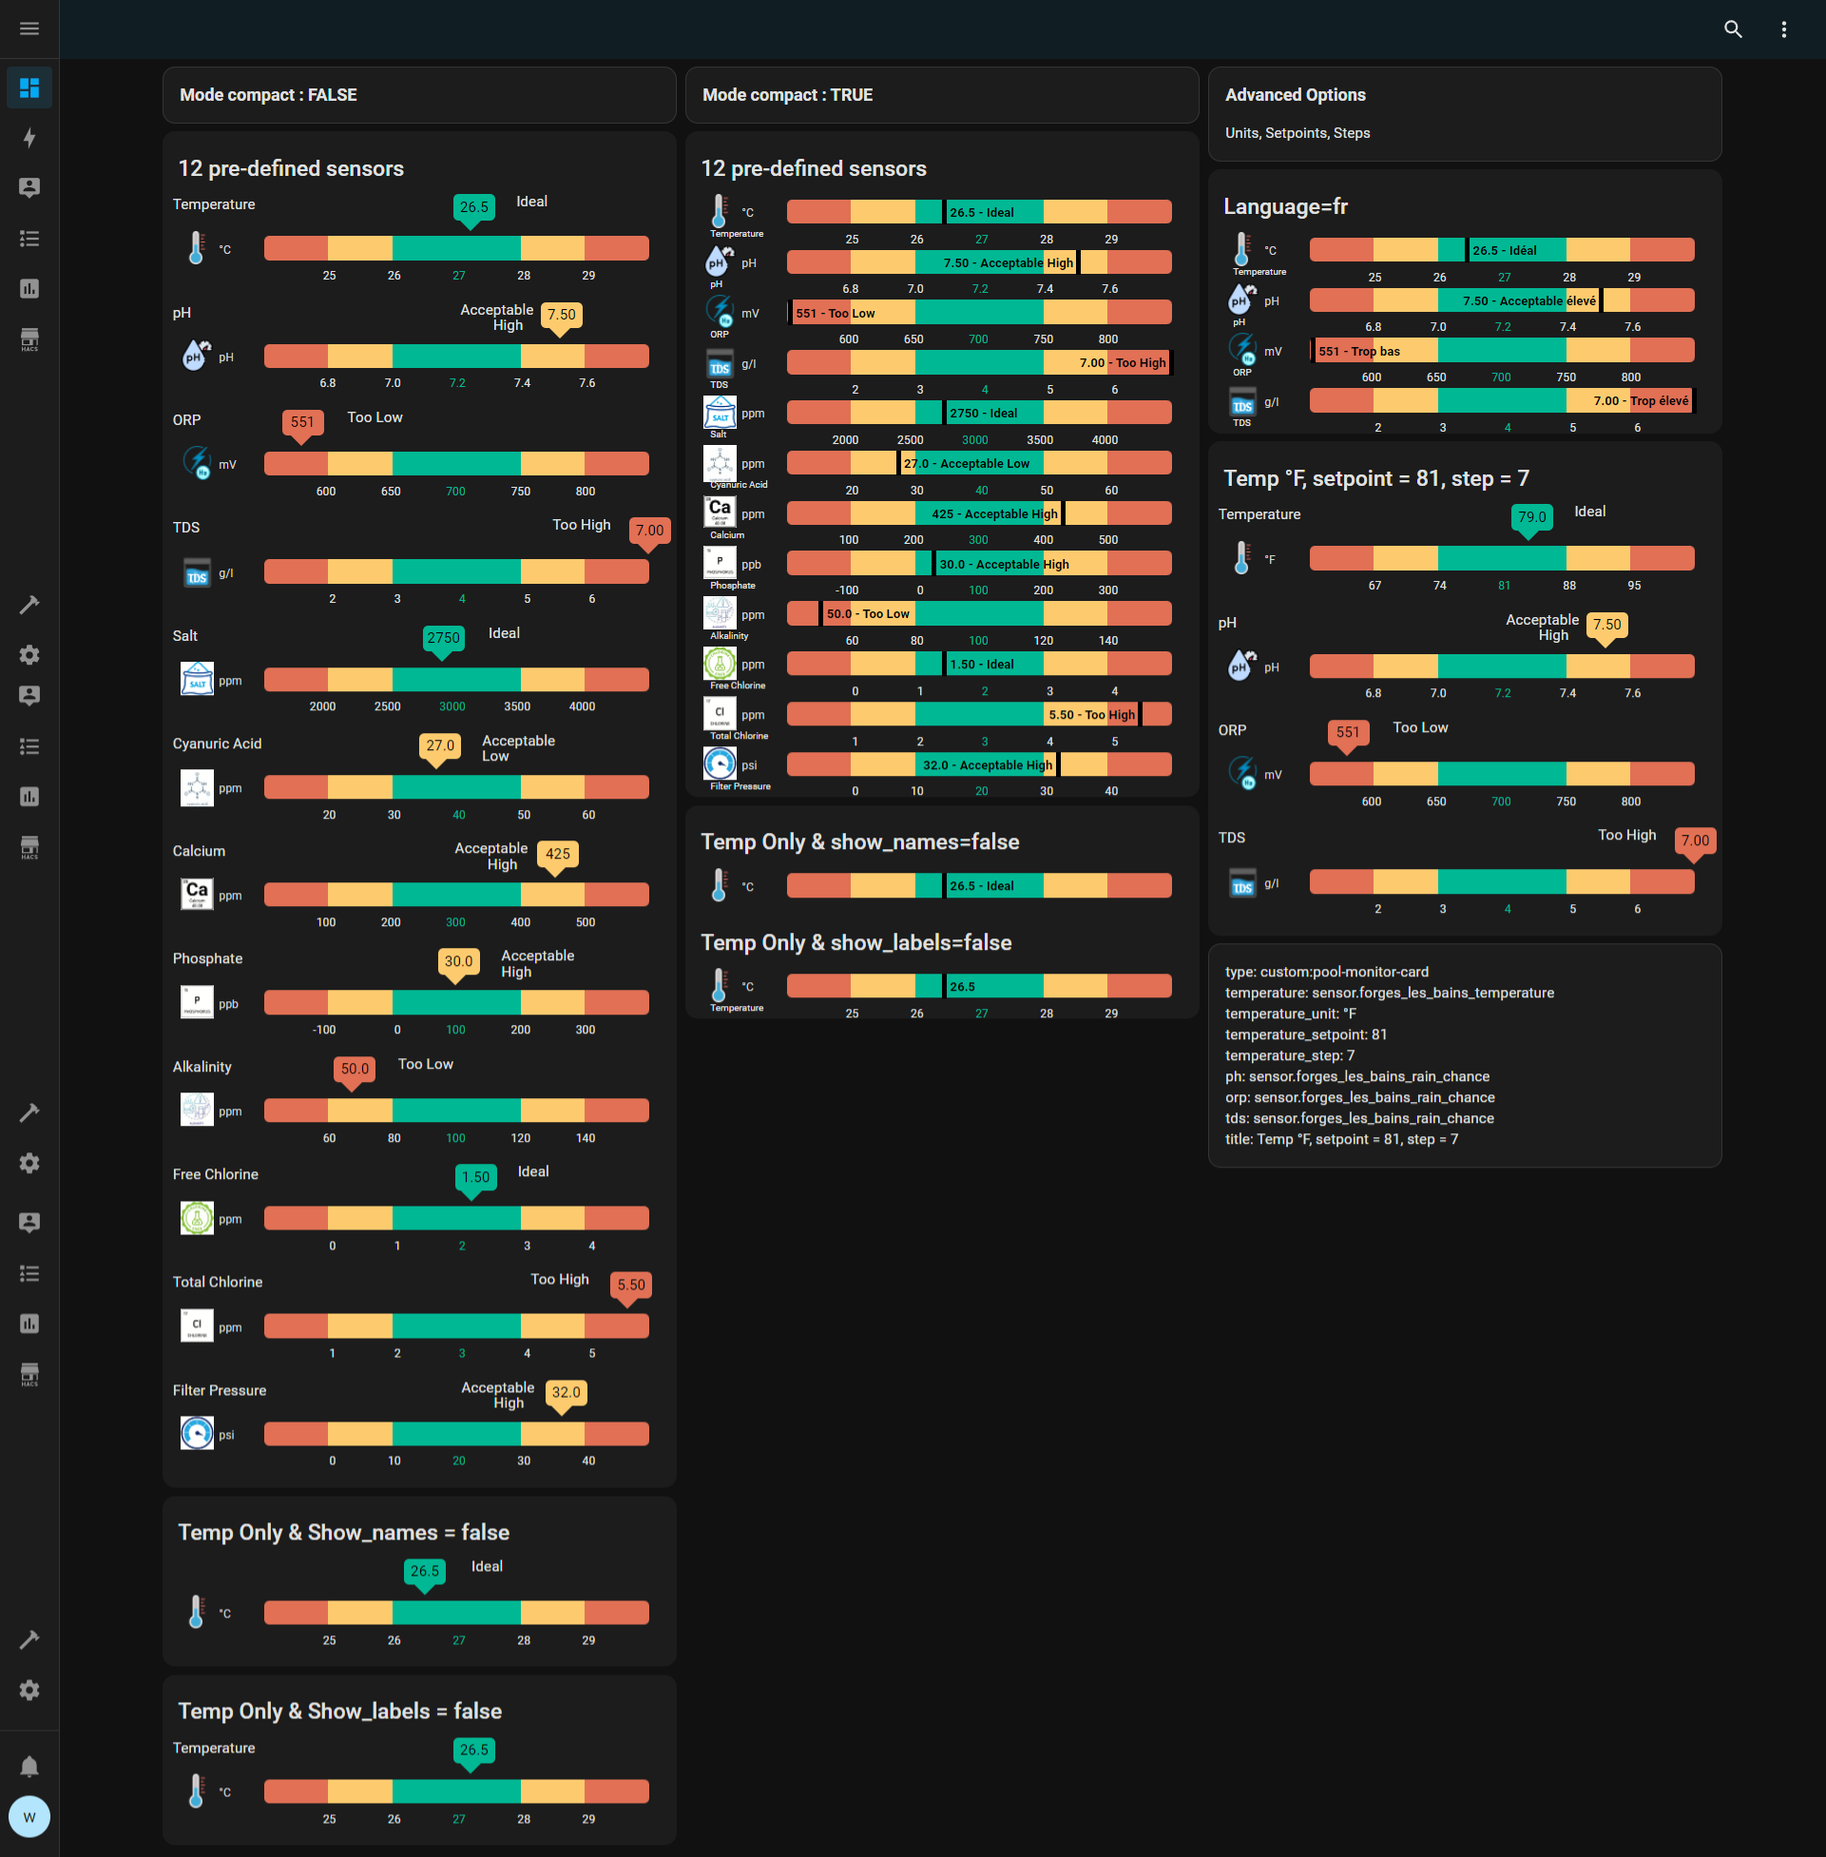
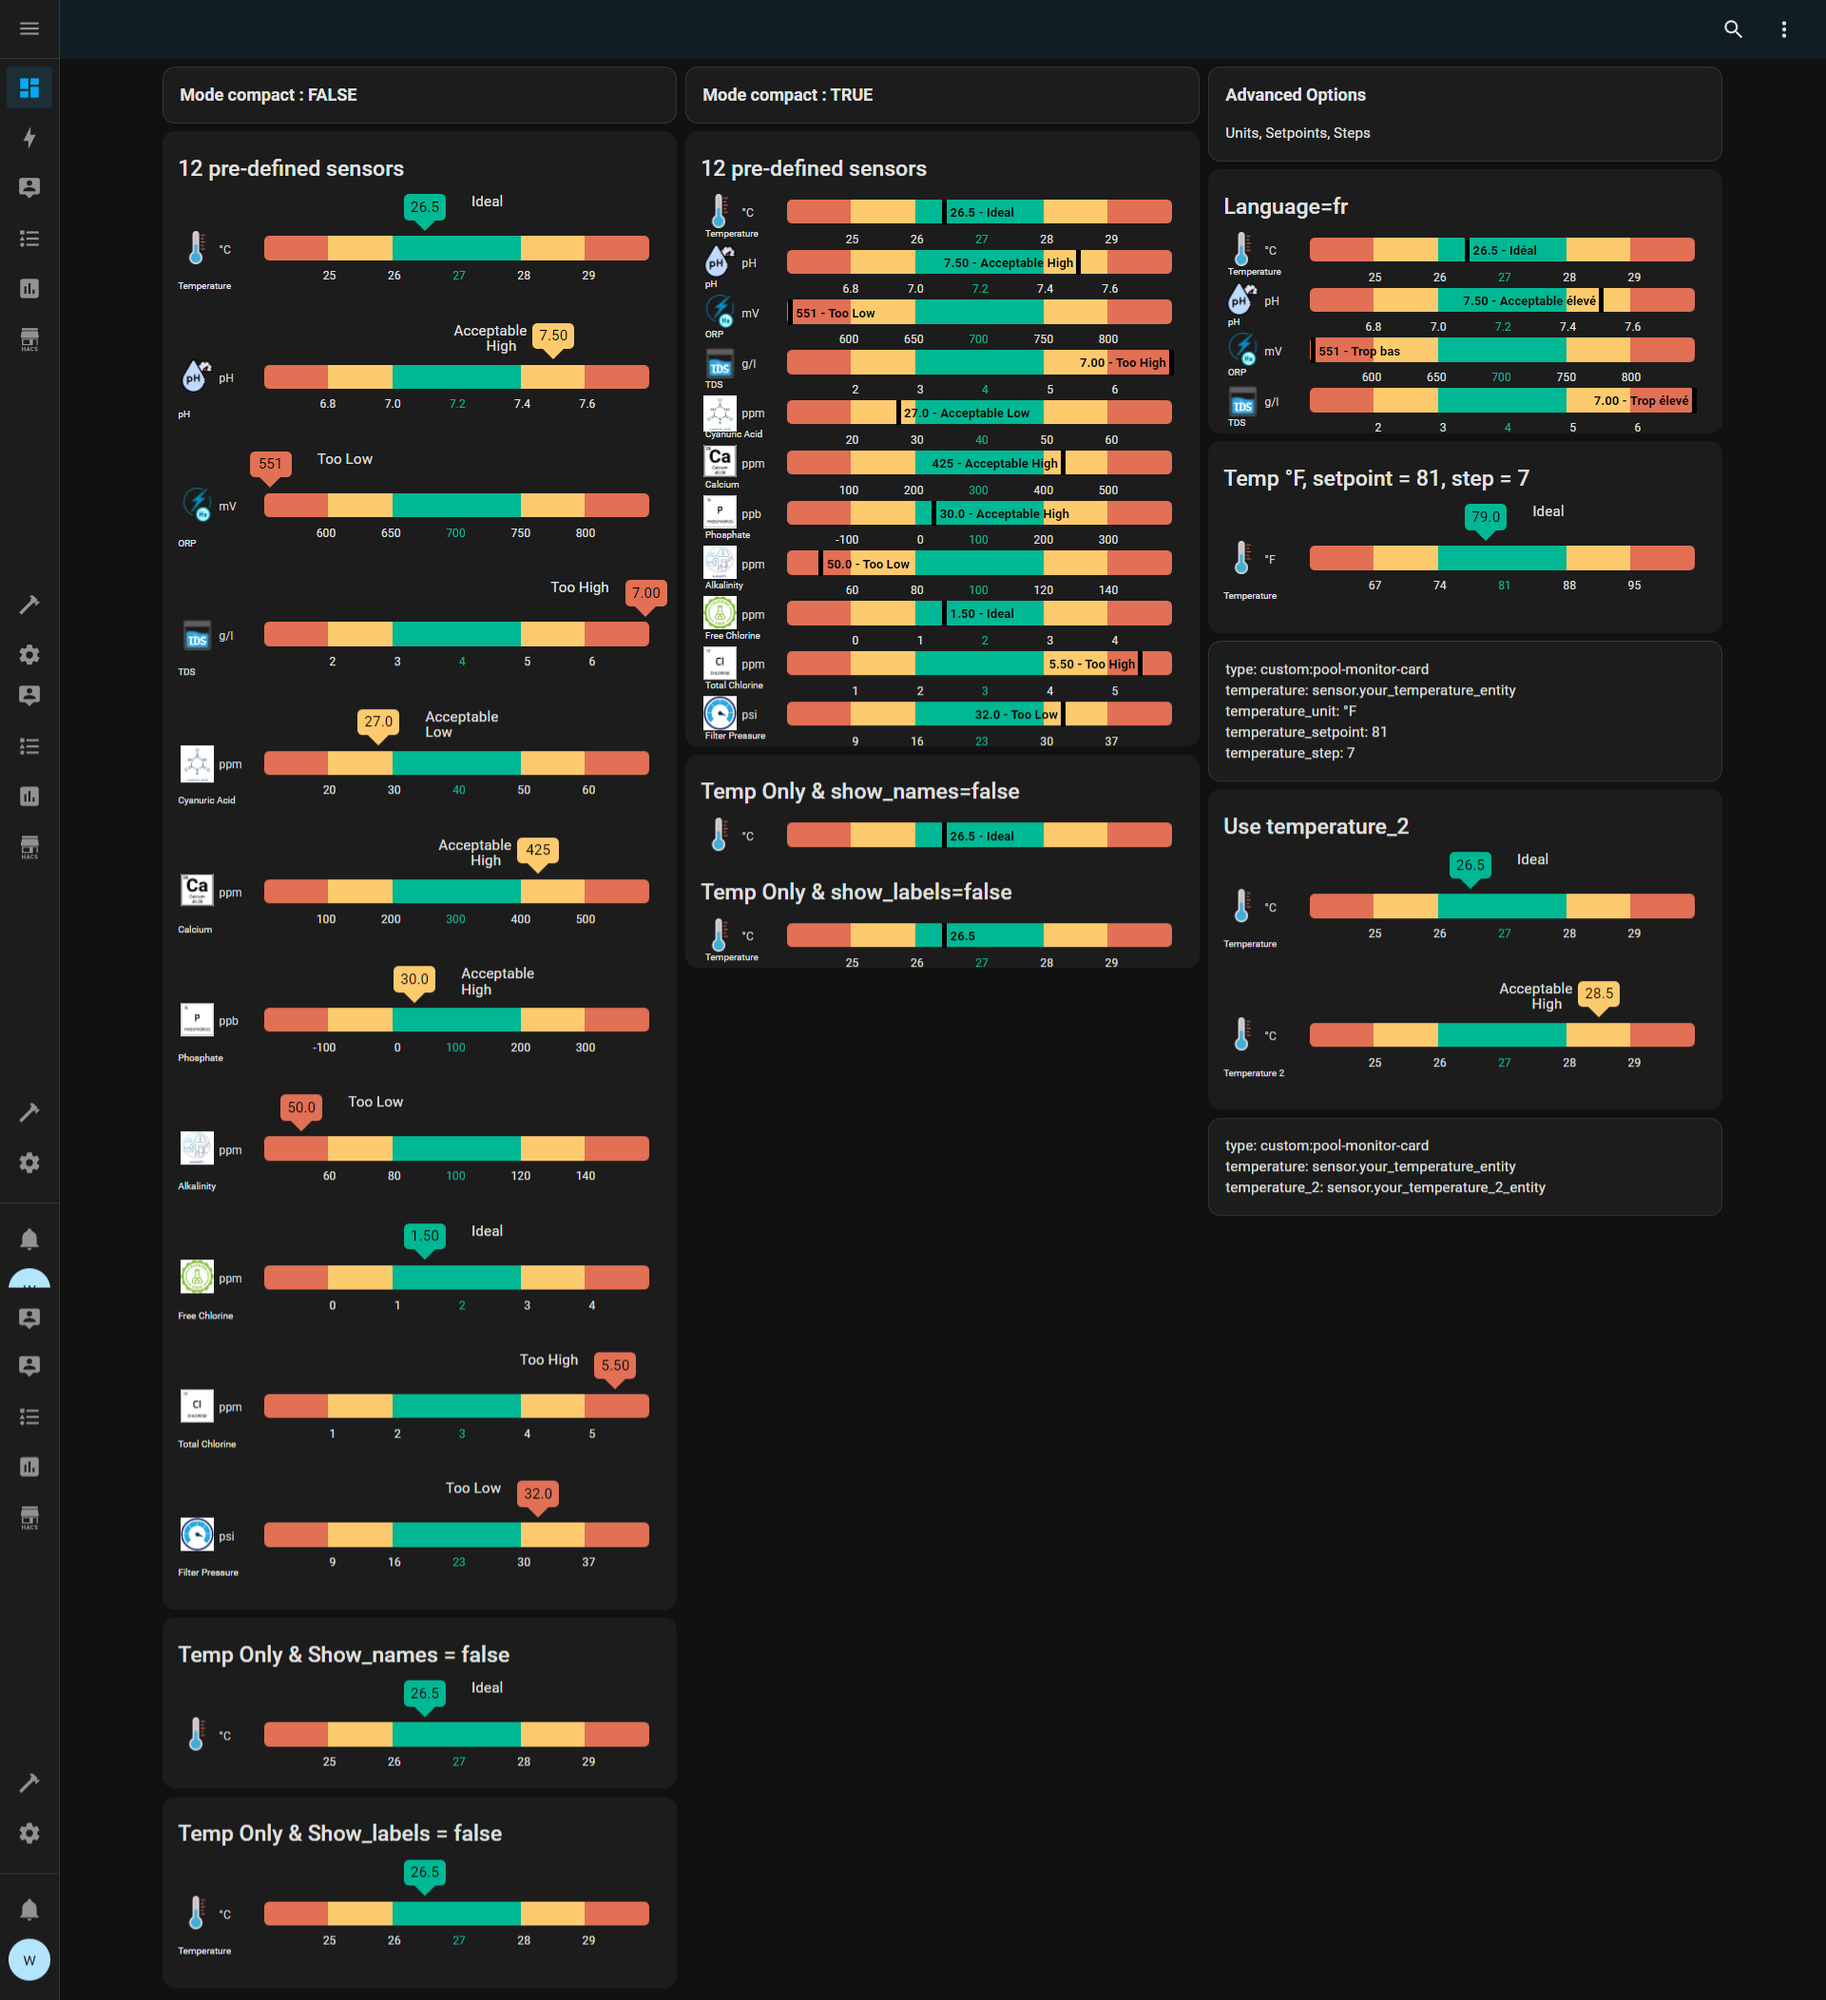
update screenshots

diff --git a/pool_monitor_card.js b/pool_monitor_card.js
@@ -232,7 +232,7 @@ class PoolMonitorCard extends LitElement {
     config.temperature_2_unit = config.temperature_2_unit.toUpperCase()
     config.temperature_2_setpoint = this.config.temperature_2_setpoint ?? (config.temperature_2_unit === "°F" ? 80 : 27) ;
     config.temperature_2_step = this.config.temperature_2_step ?? (config.temperature_2_unit === "°F" ? 2 : 1) ;
-    config.temperature_2_override = config.temperature_2_unit === "°F" ? 79 : 26.5;
+    config.temperature_2_override = config.temperature_2_unit === "°F" ? 92 : 28.5;
 
     config.ph = this.config.ph;
     config.ph_unit = this.config.ph_unit ?? "pH";
@@ -511,7 +511,7 @@ class cardContent {
         </div> 
       </div> 
     
-      <div style="position: relative;margin-top:-30px;text-align:left;left:-25px;font-size:9px ">${data.title}</div>
+      <div style="position: relative;margin-top:-30px;text-align:left;left:-30px;font-size:9px ">${data.title}</div>
 
       `
     }    
